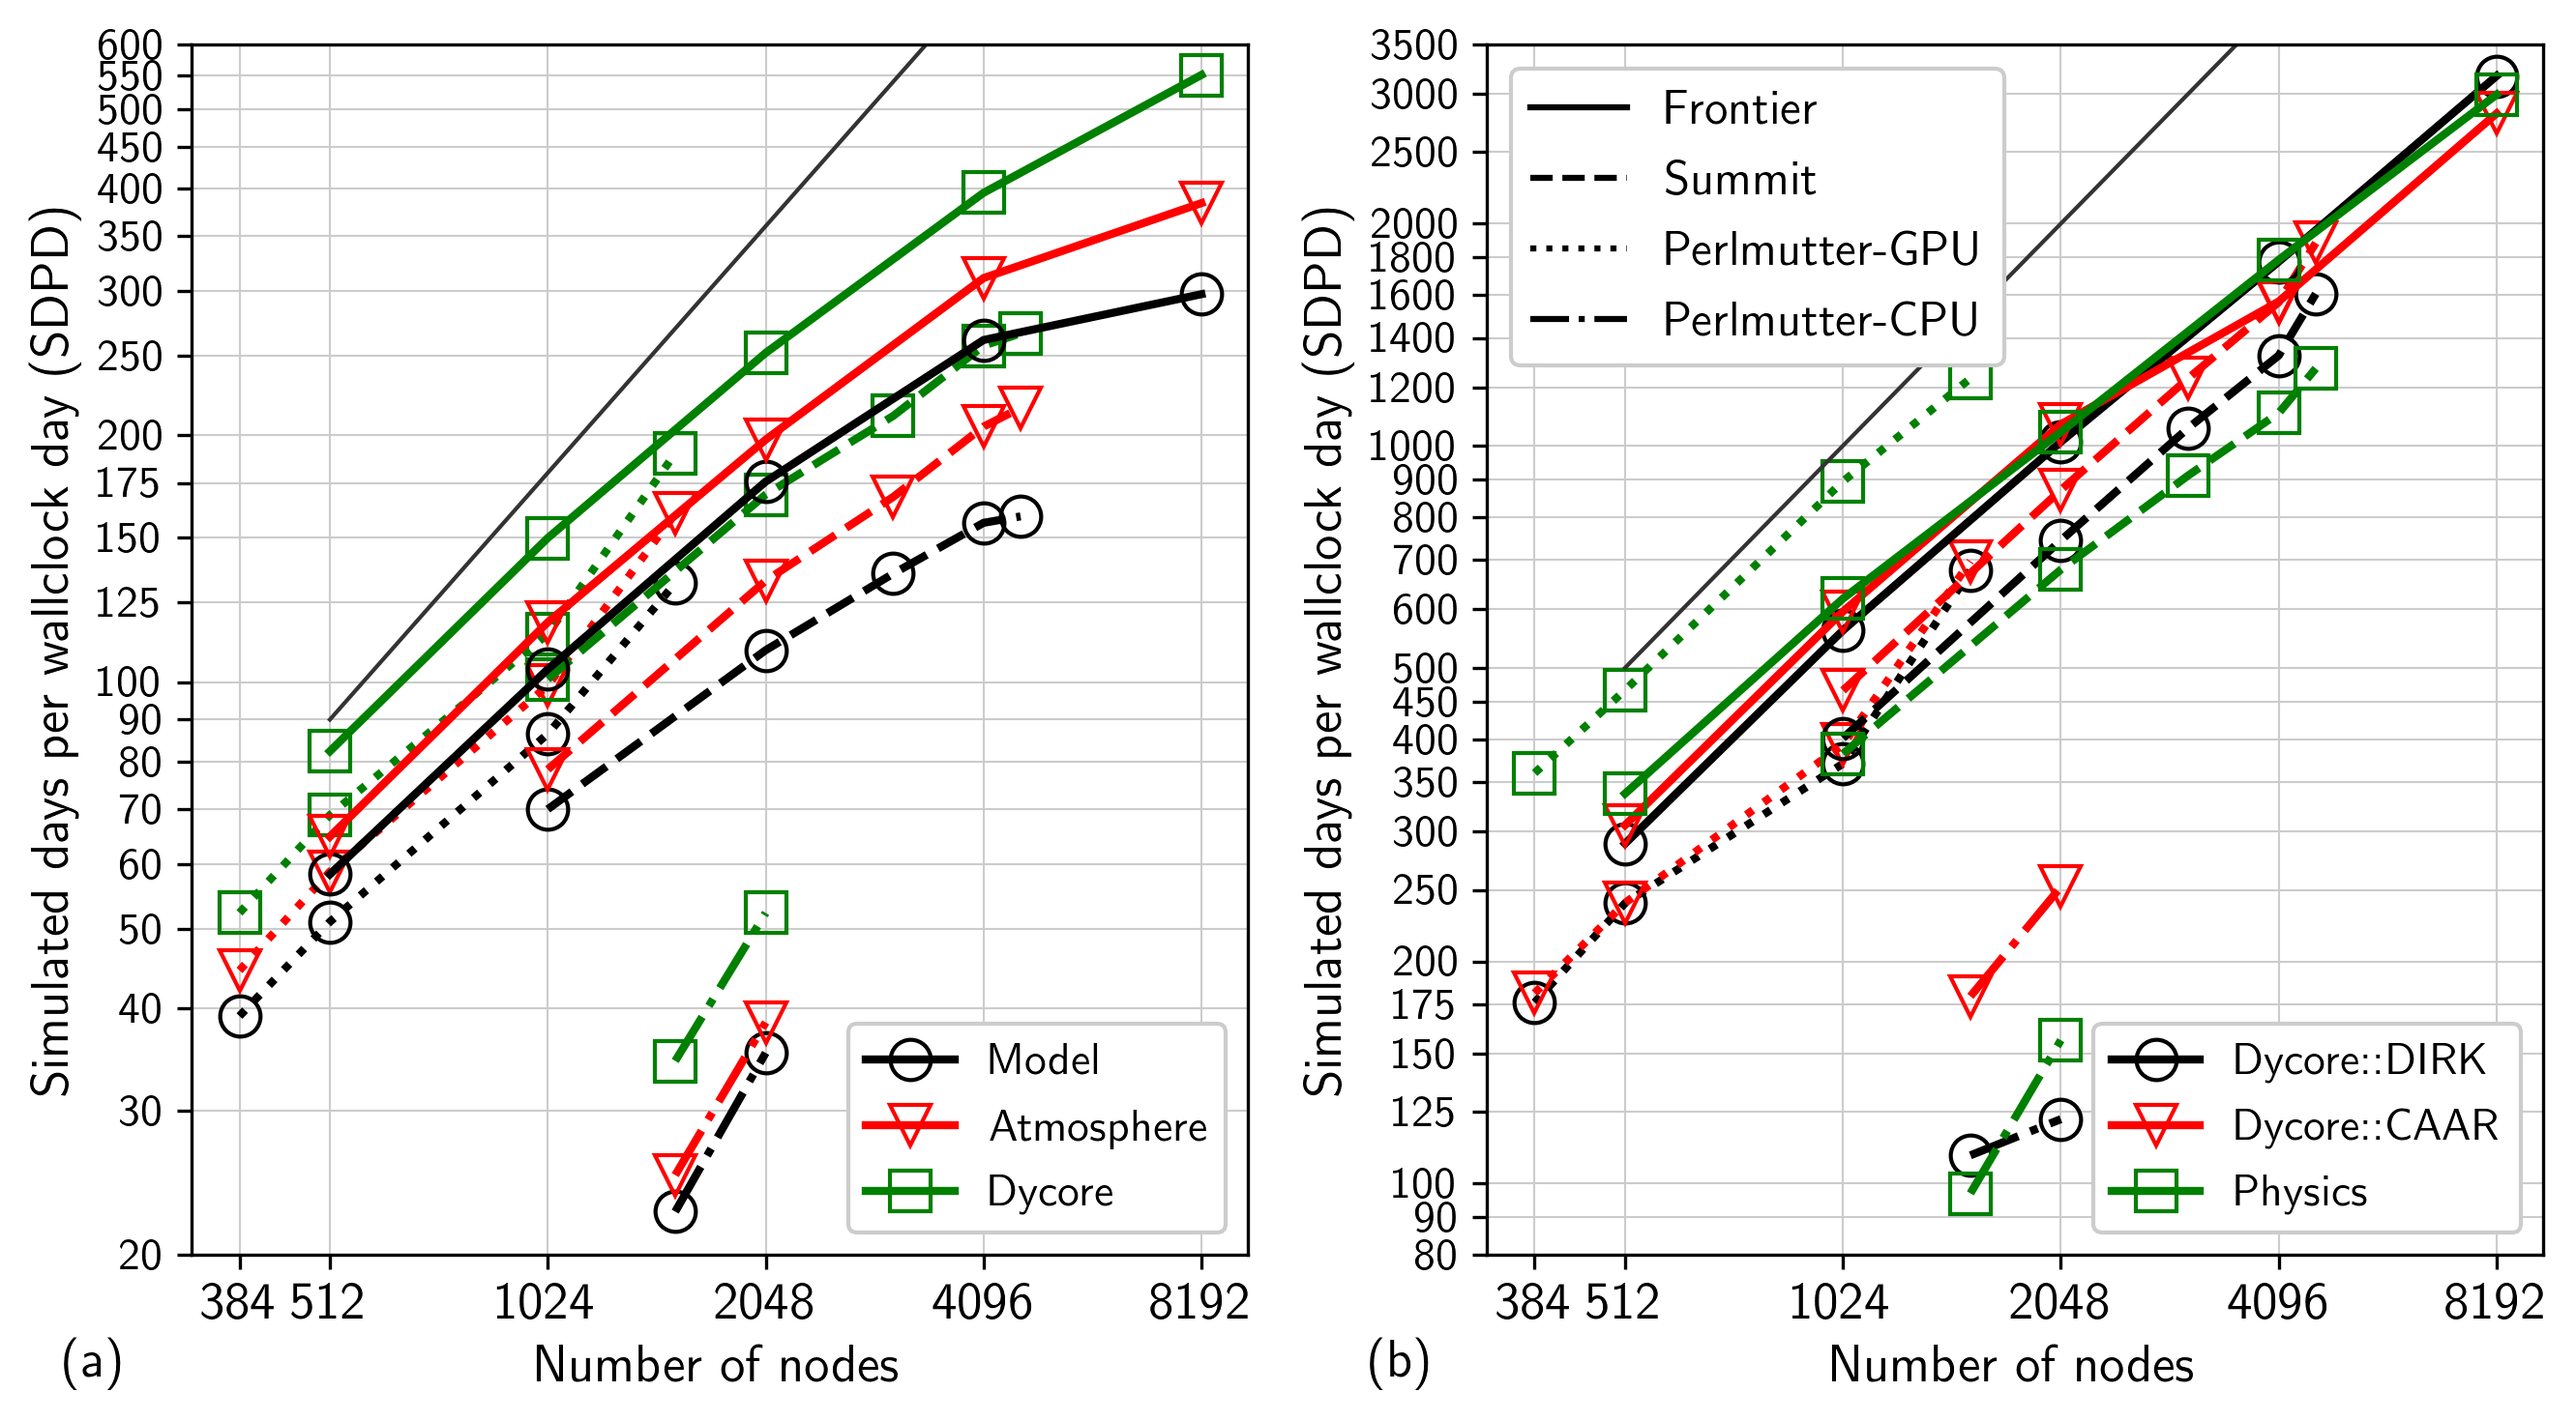
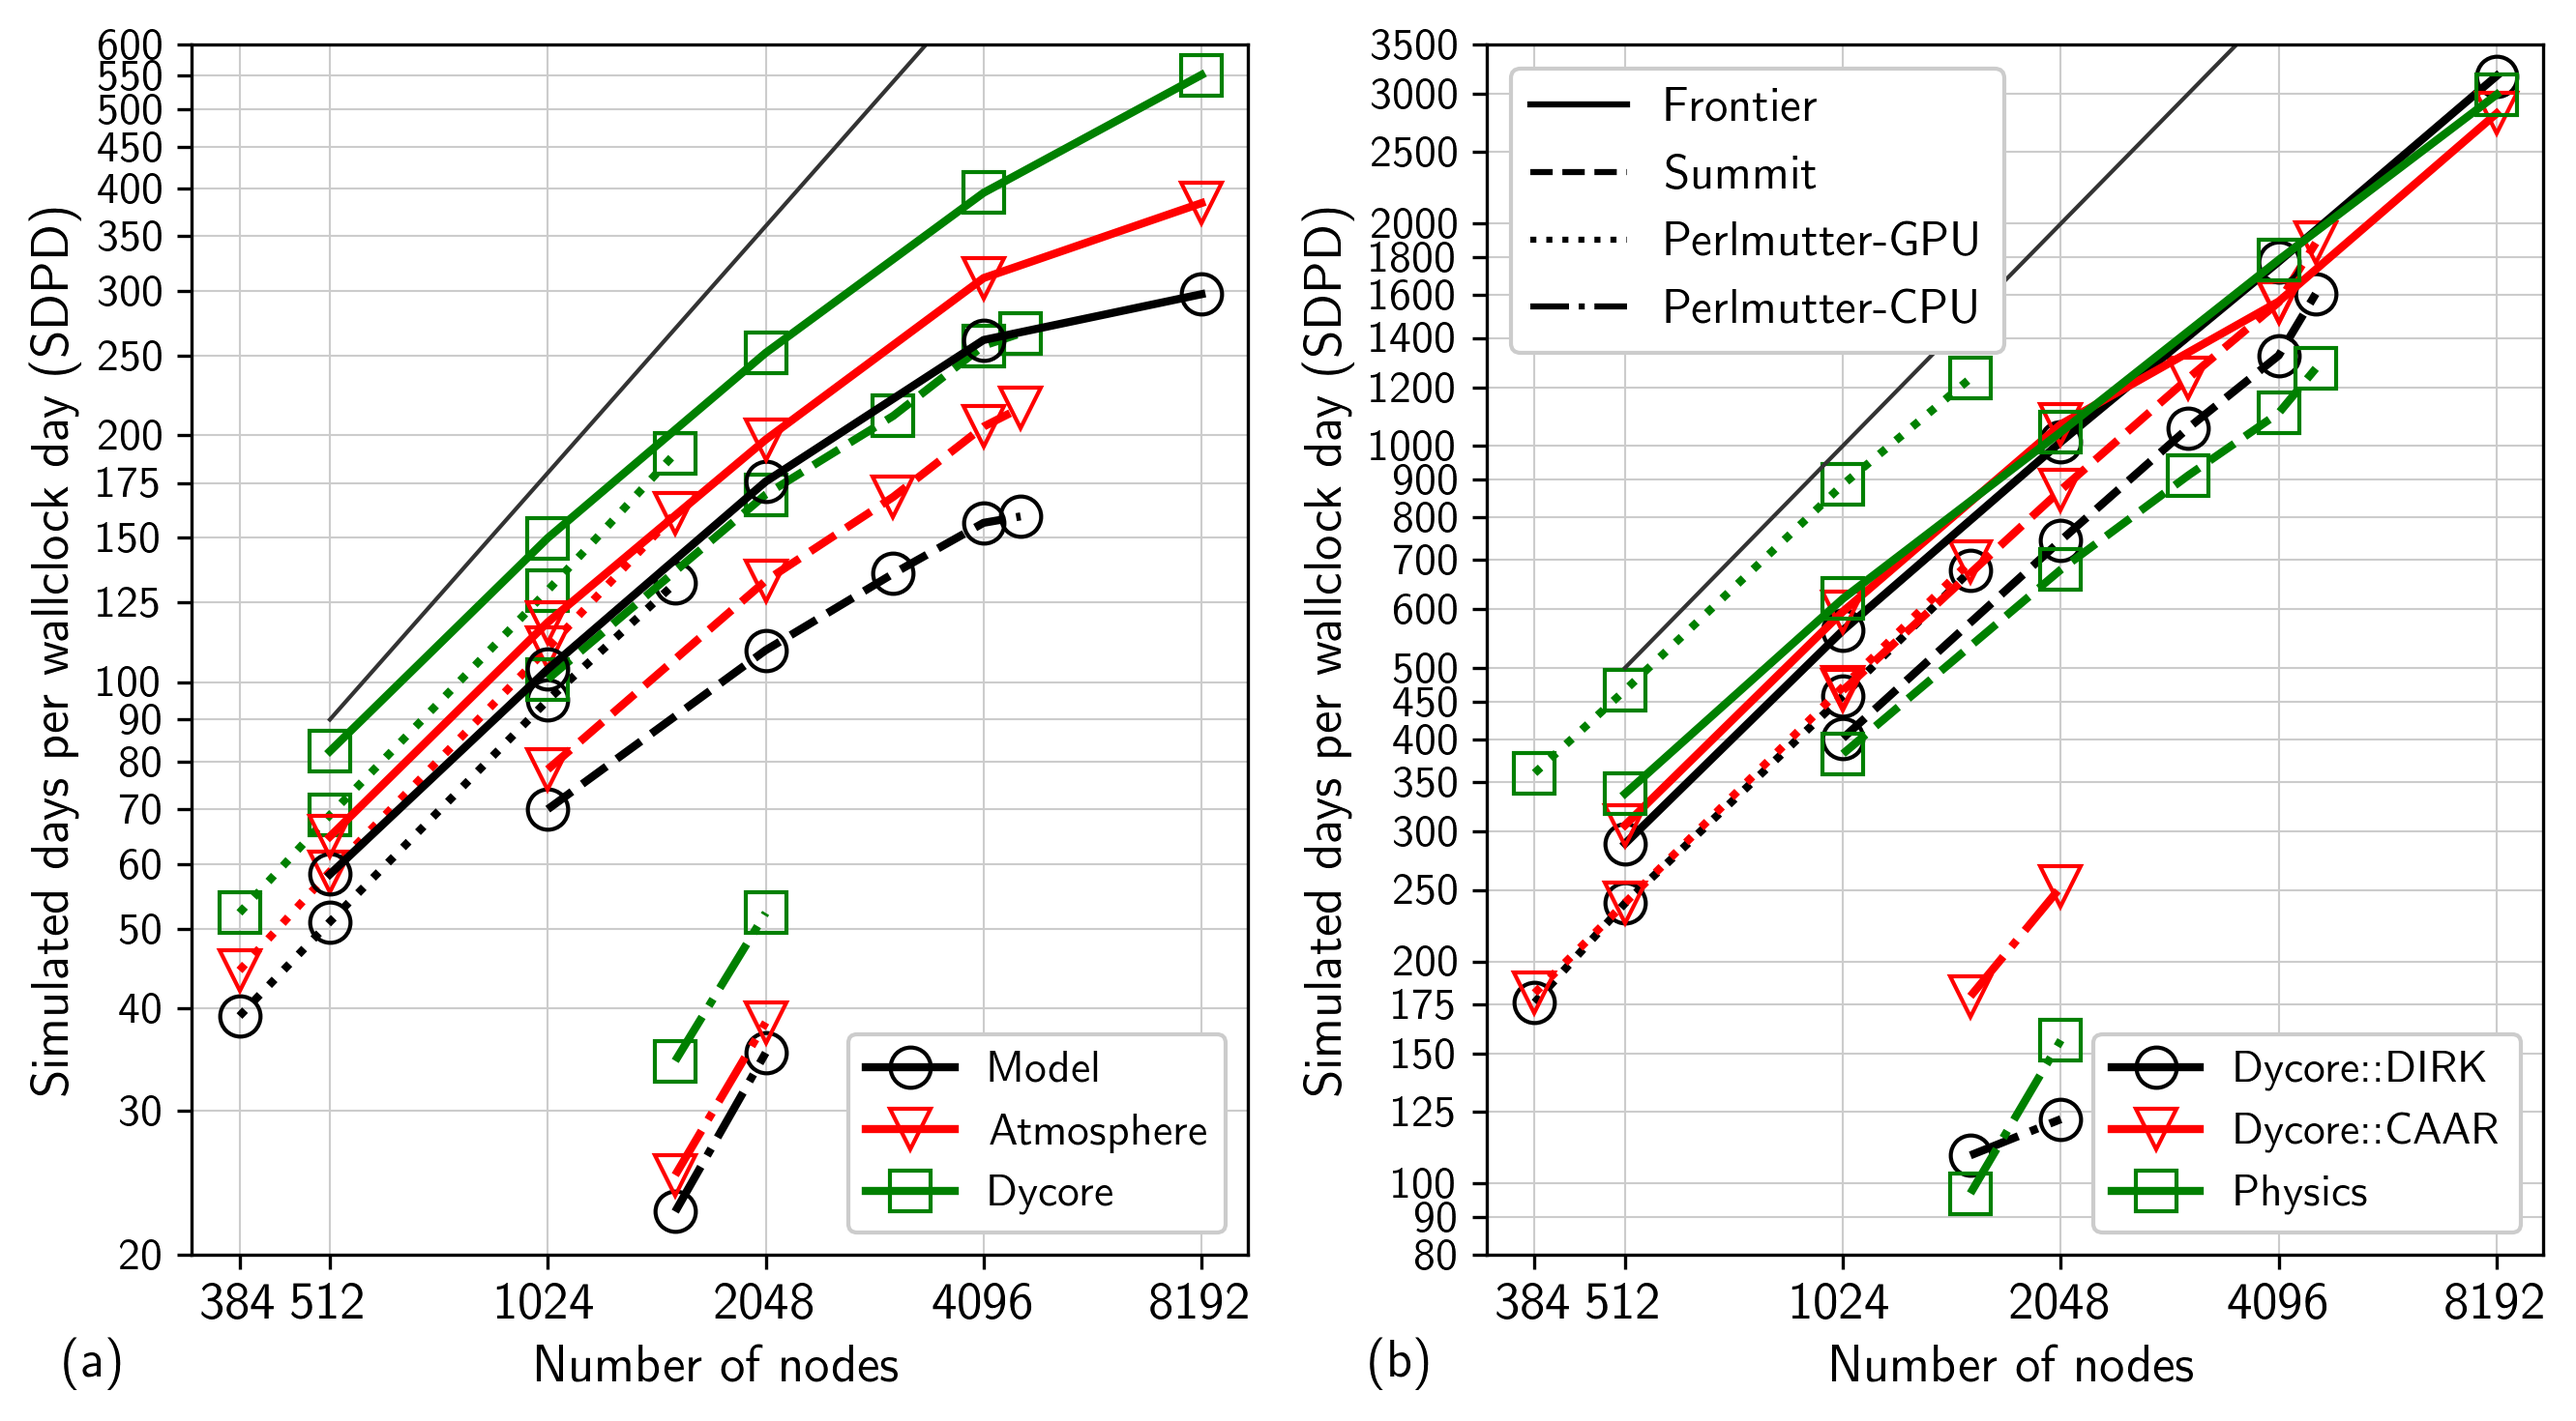
SCREAMv1 paper: Update figs with revised point.

diff --git a/screamv1-frontier-feb2023/figs/perf-table.tex b/screamv1-frontier-feb2023/figs/perf-table.tex
@@ -15,7 +15,7 @@ Summit & 1024 & 70.0 & 78.2 & 100.8 & 401.4 & 465.9 & 382.3 \\
 \hline
 Perlmutter-GPU & 384 & 39.1 & 44.5 & 52.3 & 175.9 & 181.1 & 360.0 \\
  & 512 & 51.0 & 58.7 & 68.8 & 239.8 & 240.1 & 466.3 \\
- & 1024 & 86.4 & 99.0 & 114.5 & 370.7 & 393.2 & 894.6 \\
+ & 1024 & 95.1 & 110.0 & 129.4 & 457.9 & 471.0 & 886.0 \\
  & 1536 & 132.0 & 160.5 & 190.2 & 677.0 & 697.3 & 1233.8 \\
 \hline
 Perlmutter-CPU & 1536 & 22.6 & 25.0 & 34.5 & 109.2 & 179.3 & 97.0 \\
